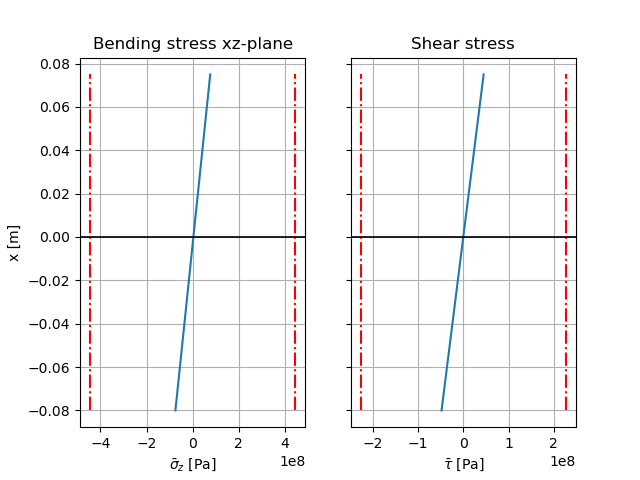
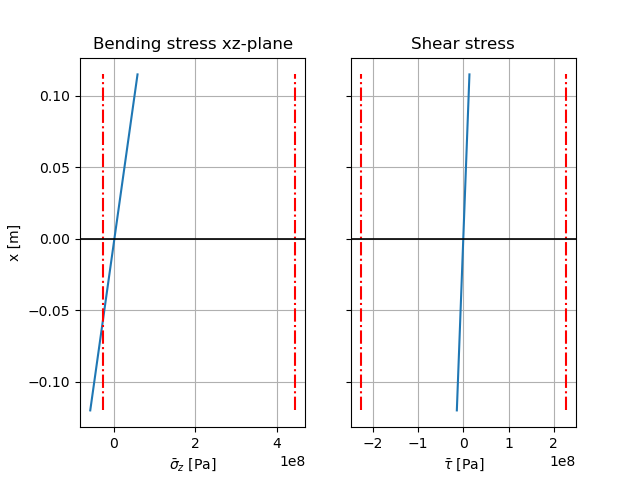
structures started on optimisation beams

diff --git a/Structures_Final/STRUC_Beamdesign.py b/Structures_Final/STRUC_Beamdesign.py
@@ -1,0 +1,83 @@
+from STRUC_Inputs import *
+
+"""
+DSE: Structures
+Beam Loading and Stresses
+"""
+
+# Imports
+
+from STRUC_Inputs import *
+from math import *
+import numpy as np
+
+
+def axes(beam):
+    dx, dy, dz = 0.005, 0.005, 0.01
+    z_ax = np.arange(0, beam.length + dz, dz)  # Beam span Direction
+    x_ax = np.arange(-beam.radius, beam.radius, dx)  # Vertical Direction
+    y_ax = np.arange(-beam.radius, beam.radius, dy)
+    return x_ax, y_ax, z_ax
+
+x, y, z = axes(use_beam)
+
+
+# Internal Load Function along z-axis
+def v_beam(beam, load, pos_z):
+    Vy = beam.weight + beam.weight_engine - load.L / n - beam.weight * pos_z / beam.length
+    Vx = -load.D
+    return Vx, Vy
+
+def m_beam(beam, load, pos_z):
+    M_ax = (beam.weight / 2 + beam.weight_engine - load.L / n) * beam.length
+    Mx = (beam.weight + beam.weight_engine - load.L / n) * pos_z - beam.weight * pos_z ** 2 / (2 * beam.length) - M_ax
+    M_ay = beam.length * load.D*beam.radius * 2 * beam.length
+    My = M_ay - M_ay * pos_z/beam.length + load.T
+    return Mx, My
+
+
+# Bending stress along x- and z-axis
+def stress_beam(beam, load, pos_z):
+    x, y, z = axes(beam)
+    sigma_L_z = load.P / (2 * pi * beam.radius * beam.thickness)
+    sigma_bend_y = (m_beam(beam, load, pos_z)[1] / beam.Ixx) * y
+    sigma_bend_x = (m_beam(beam, load, pos_z)[0] / beam.Iyy) * x
+    sigma_z_y_max = np.max(np.add(sigma_bend_y, sigma_L_z * np.ones(np.shape(sigma_bend_y))))
+    sigma_z_y_min = np.min(np.add(sigma_bend_y, sigma_L_z * np.ones(np.shape(sigma_bend_y))))
+    sigma_z_x_max = np.max(np.add(sigma_bend_x, sigma_L_z * np.ones(np.shape(sigma_bend_x))))
+    sigma_z_x_min = np.min(np.add(sigma_bend_x, sigma_L_z * np.ones(np.shape(sigma_bend_x))))
+    return max(sigma_z_x_max, sigma_z_y_max), min(sigma_z_x_min, sigma_z_y_min)
+
+def sigma_buckling(beam, material):
+    sigma_b = -(pi**2 * material.E_modulus / (beam.K * beam.length / beam.radius)**2 + 1.2 * pi **2 * (material.E_modulus/material.G_modulus))
+    return sigma_b
+
+for i in np.arange(0, 2.41, 0.1):
+    stress_t, stress_c = stress_beam(use_beam, use_loadcase, i)
+    if use_material.sigma_t /1.25 > stress_t and sigma_buckling(use_beam, use_material)/1.25 < stress_c :
+        print("OK", "OK")
+    elif use_material.sigma_t /1.25 > stress_t and sigma_buckling(use_beam, use_material)/1.25 >= stress_c :
+        print("OK", "not OK")
+    elif use_material.sigma_t /1.25 <= stress_t and sigma_buckling(use_beam, use_material)/1.25 < stress_c :
+        print("not OK", "OK")
+    else:
+        print("not OK", "not OK")
+
+"""
+
+def shear_beam(beam, load):
+    x, y, z = axes(beam)
+    Vx = v_beam(beam, load)[0]
+    Vy = v_beam(beam, load)[1]
+    shear_x = np.transpose([Vx]) / (-pi * beam.thickness * beam.radius ** 4) * [y]
+    shear_y = np.transpose([Vy]) / (-pi * beam.thickness * beam.radius ** 4) * [x]
+    return shear_x, shear_y
+
+# Failure Modes - Tensile Strength
+
+
+# Failure Modus - Buckling
+def sigma_buckling(beam, material):
+    sigma_b = pi**2 * material.E_modulus / (beam.K * beam.length / beam.radius)**2 + 1.2 * pi **2 * (material.E_modulus/material.G_modulus)
+    return sigma_b
+"""

diff --git a/Structures_Final/STRUC_Stiffness.py b/Structures_Final/STRUC_Stiffness.py
@@ -1,74 +1,17 @@
 from STRUC_Inputs import *
-
-"""
-DSE: Structures
-Beam Loading and Stresses (for Ehang concept)
-"""
-
-# Imports
 from math import *
 import numpy as np
-from STRUC_Inputs import *
-
-# Input choices
-use_beam = beam2
-use_material = aluminium
-use_loadcase = Gust
 
 
-def axes(beam):
-    dx, dy, dz = 0.005, 0.005, 0.01
-    z = np.arange(0, beam.length + dz, dz)  # Beam span Direction
-    x = np.arange(-beam.radius, beam.radius, dx)  # Vertical Direction
-    y = np.arange(-beam.radius, beam.radius, dy)
-    return x, y, z
+def deflection_y(beam, material):
+    d = 1/(material.E_modulus*beam.Iyy)
+    return d
+
+print(deflection_y(beam2, aluminium))
+
+def deflection_x(beam, load):
+    pass
 
 
-# Internal Load Function along z-axis
-def v_beam(beam, load):
-    x, y, z = axes(beam)
-    Vy = beam.weight + beam.weight_engine - load.L / n - beam.weight * z / beam.length
-    Vx = -load.D*np.ones(np.shape(z))
-    return Vx, Vy
-
-
-# Moment Function along z-axis
-def m_beam(beam, load):
-    x, y, z = axes(beam)
-    M_ax = (beam.weight / 2 + beam.weight_engine - load.L / n) * beam.length
-    Mx = (beam.weight + beam.weight_engine - load.L / n) * z - beam.weight * z ** 2 / (2 * beam.length) - M_ax
-    M_ay = beam.length * load.D*beam.radius * 2 * beam.length
-    My = M_ay - M_ay * z/beam.length + load.T
-    return Mx, My
-
-
-# Bending stress along x- and z-axis
-def stress_beam(beam, load):
-    x, y, z = axes(beam)
-    sigma_L_z = load.P / (2 * pi * beam.radius * beam.thickness)
-    sigma_bend_y = np.transpose([(m_beam(beam, load)[1] / beam.Ixx)]) * [y]
-    sigma_bend_x = np.transpose([(m_beam(beam,load)[0]) / beam.Iyy]) * [x]
-    sigma_z_y = np.add(sigma_bend_y, sigma_L_z * np.ones(np.shape(sigma_bend_y)))
-    sigma_z_x = np.add(sigma_bend_x, sigma_L_z * np.ones(np.shape(sigma_bend_x)))
-    return sigma_z_x, sigma_z_y
-
-
-def shear_beam(beam, load):
-    x, y, z = axes(beam)
-    Vx = v_beam(beam, load)[0]
-    Vy = v_beam(beam, load)[1]
-    shear_x = np.transpose([Vx]) / (-pi * beam.thickness * beam.radius ** 4) * [y]
-    shear_y = np.transpose([Vy]) / (-pi * beam.thickness * beam.radius ** 4) * [x]
-    return shear_x, shear_y
-
-
-def weight_beam(material, beam):
-    W = material.density * 2 * pi * beam.thickness * beam.radius * beam.length
-    return W
-
-
-print(weight_beam(use_material, use_beam))
-
-
-
-
+def deflection_theta(beam, load):
+    pass

diff --git a/Structures_Final/STRUC_Stress.py b/Structures_Final/STRUC_Stress.py
@@ -1,0 +1,67 @@
+from STRUC_Inputs import *
+
+"""
+DSE: Structures
+Beam Loading and Stresses
+"""
+
+# Imports
+
+from STRUC_Inputs import *
+from math import *
+import numpy as np
+
+
+def axes(beam):
+    dx, dy, dz = 0.005, 0.005, 0.01
+    z = np.arange(0, beam.length + dz, dz)  # Beam span Direction
+    x = np.arange(-beam.radius, beam.radius, dx)  # Vertical Direction
+    y = np.arange(-beam.radius, beam.radius, dy)
+    return x, y, z
+
+
+# Internal Load Function along z-axis
+def v_beam(beam, load):
+    x, y, z = axes(beam)
+    Vy = beam.weight + beam.weight_engine - load.L / n - beam.weight * z / beam.length
+    Vx = -load.D*np.ones(np.shape(z))
+    return Vx, Vy
+
+
+# Moment Function along z-axis
+def m_beam(beam, load):
+    x, y, z = axes(beam)
+    M_ax = (beam.weight / 2 + beam.weight_engine - load.L / n) * beam.length
+    Mx = (beam.weight + beam.weight_engine - load.L / n) * z - beam.weight * z ** 2 / (2 * beam.length) - M_ax
+    M_ay = beam.length * load.D*beam.radius * 2 * beam.length
+    My = M_ay - M_ay * z/beam.length + load.T
+    return Mx, My
+
+
+# Bending stress along x- and z-axis
+def stress_beam(beam, load):
+    x, y, z = axes(beam)
+    sigma_L_z = load.P / (2 * pi * beam.radius * beam.thickness)
+    sigma_bend_y = np.transpose([(m_beam(beam, load)[1] / beam.Ixx)]) * [y]
+    sigma_bend_x = np.transpose([(m_beam(beam, load)[0]) / beam.Iyy]) * [x]
+    sigma_z_y = np.add(sigma_bend_y, sigma_L_z * np.ones(np.shape(sigma_bend_y)))
+    sigma_z_x = np.add(sigma_bend_x, sigma_L_z * np.ones(np.shape(sigma_bend_x)))
+    return sigma_z_x, sigma_z_y
+
+
+def shear_beam(beam, load):
+    x, y, z = axes(beam)
+    Vx = v_beam(beam, load)[0]
+    Vy = v_beam(beam, load)[1]
+    shear_x = np.transpose([Vx]) / (-pi * beam.thickness * beam.radius ** 4) * [y]
+    shear_y = np.transpose([Vy]) / (-pi * beam.thickness * beam.radius ** 4) * [x]
+    return shear_x, shear_y
+
+# Failure Modes - Tensile Strength
+
+
+# Failure Modus - Buckling
+def sigma_buckling(beam, material):
+    sigma_b = pi**2 * material.E_modulus / (beam.K * beam.length / beam.radius)**2 + 1.2 * pi **2 * (material.E_modulus/material.G_modulus)
+    return sigma_b
+

diff --git a/Structures_Final/STRUC_Inputs.py b/Structures_Final/STRUC_Inputs.py
@@ -2,8 +2,10 @@
 from STRUC_Classes import Load, Material
 from STRUC_Design import Beam
 
+
 # Values
 SF = 1.25
+
 
 # Lift assignment
 Vertical_max = Load(8000, 0, 0, 1000)
@@ -11,17 +13,21 @@ Ground = Load(0, 0, 0, 0)
 Gust = Load(8000, 21, 5000, 1000)
 
 
-
 # Materials
-aluminium = Material(444e6, 400e6, 70e9, 283e6, 2.8e3)
-steel = Material(570e6, 240e6, 197e9, 440e6, 8.0e3)
-titanium = Material(620e6, 880e6, 113e9, 550e6, 4.43e3)
-carbon = Material(4274e6, 4274e6, 234e9, 55e6, 691.7)
+aluminium = Material(444e6, 400e6, 70e9, 283e6, 2.8e3,26.9e9)
+steel = Material(570e6, 240e6, 197e9, 440e6, 8.0e3,0)
+titanium = Material(620e6, 880e6, 113e9, 550e6, 4.43e3,0)
+carbon = Material(4274e6, 4274e6, 234e9, 55e6, 691.7,0)
 
 n = 6
 
 # Beams
-beam1 = Beam(5, 1.2, 0.08, 52 / n, 0.0035)
-beam2 = Beam(5, 1.4, 0.08, 52 / n, 0.0035)  # The weight, radius and thickness should be iterated and is not correct here!!!!!!
-beam3 = Beam(5, 2.0, 0.08, 52 / n, 0.0035)
-beam4 = Beam(5, 2.4, 0.08, 52 / n, 0.0035)
+beam1 = Beam(aluminium, 1.2, 0.08, 52 / n, 0.0035)
+beam2 = Beam(aluminium, 1.4, 0.08, 52 / n, 0.0035)  # The weight, radius and thickness should be iterated and is not correct here!!!!!!
+beam3 = Beam(aluminium, 2.0, 0.08, 52 / n, 0.0035)
+beam4 = Beam(aluminium, 2.4, 0.12, 52 / n, 0.0035)
+beam5 = Beam(aluminium, 10, 0.08, 52 / n, 0.0035)
+# Input  beam2
+use_material = aluminium
+use_beam = beam4
+use_loadcase = Gust

diff --git a/Structures_Final/STRUC_Plotting.py b/Structures_Final/STRUC_Plotting.py
@@ -1,5 +1,5 @@
 from matplotlib import pyplot as plt
-from STRUC_Stiffness import *
+from STRUC_Stress import *
 
 x, y, z = axes(use_beam)
 V_x, V_y = v_beam(use_beam, use_loadcase)
@@ -36,11 +36,11 @@ ax4.set(xlabel=r'$z$ [m]', ylabel=r'$\bar{M}_x$ [N/m]')
 ax4.grid(True)
 ax4.axhline(0, color='black', lw=1.2)
 fig2.savefig("Loading_diagrams_yz")
-
+print(sigma_buckling(use_beam, use_material))
 fig3, (ax5, ax6) = plt.subplots(1, 2, sharey=True)
 ax5.plot(sigma_zx[0], x)
 ax5.plot(np.ones(np.size(x)) * use_material.sigma_t, x, '-.r')
-ax5.plot(-np.ones(np.size(x)) * use_material.sigma_t, x, '-.r', label='line1')
+ax5.plot(-np.ones(np.size(x)) * sigma_buckling(use_beam, use_material), x, '-.r', label='line1')
 ax5.set_title("Bending stress xz-plane")
 ax5.set(xlabel=r'$\bar{\sigma}_z$ [Pa]', ylabel="x [m]")
 ax5.grid(True)
@@ -57,7 +57,7 @@ fig3.savefig("Stress_diagrams_xz")
 fig4, (ax7, ax8) = plt.subplots(1, 2, sharey=True)
 ax7.plot(sigma_zy[0], x)
 ax7.plot(np.ones(np.size(x)) * use_material.sigma_t, x, '-.r')
-ax7.plot(-np.ones(np.size(x)) * use_material.sigma_t, x, '-.r', label='line1')
+ax7.plot(-np.ones(np.size(x)) * sigma_buckling(use_beam, use_material), x, '-.r', label='line1')
 ax7.set_title("Bending stress yz-plane")
 ax7.set(xlabel=r'$\bar{\sigma}_z$ [Pa]', ylabel="x [m]")
 ax7.grid(True)

diff --git a/Structures_Final/STRUC_Classes.py b/Structures_Final/STRUC_Classes.py
@@ -16,10 +16,11 @@ class Load:
 
 class Material:
 
-    def __init__(self, tensile_strength, yield_strength, E_modulus, shear_strength, density):
+    def __init__(self, tensile_strength, yield_strength, E_modulus, shear_strength, density, G_modulus):
         self.sigma_t = tensile_strength  # Pa
         self.sigma_y = yield_strength  # Pa
         self.E_modulus = E_modulus  # Pa
         self.tau = shear_strength  # Pa
         self.density = density  # kg/m**3
+        self.G_modulus = G_modulus
 

diff --git a/Structures_Final/STRUC_Design.py b/Structures_Final/STRUC_Design.py
@@ -2,15 +2,16 @@
 Full Structural Design
 """
 
+from math import *
 
 class VTOL:
     pass
 
 
 class Beam(VTOL):
-
-    def __init__(self, weight, length, radius, weight_engine, thickness):
-        self.weight = weight
+    K = 8
+    def __init__(self, material, length, radius, weight_engine, thickness):
+        self.weight = material.density*radius * 2 * pi * length * thickness
         self.length = length
         self.radius = radius
         self.weight_engine = weight_engine * 9.81
